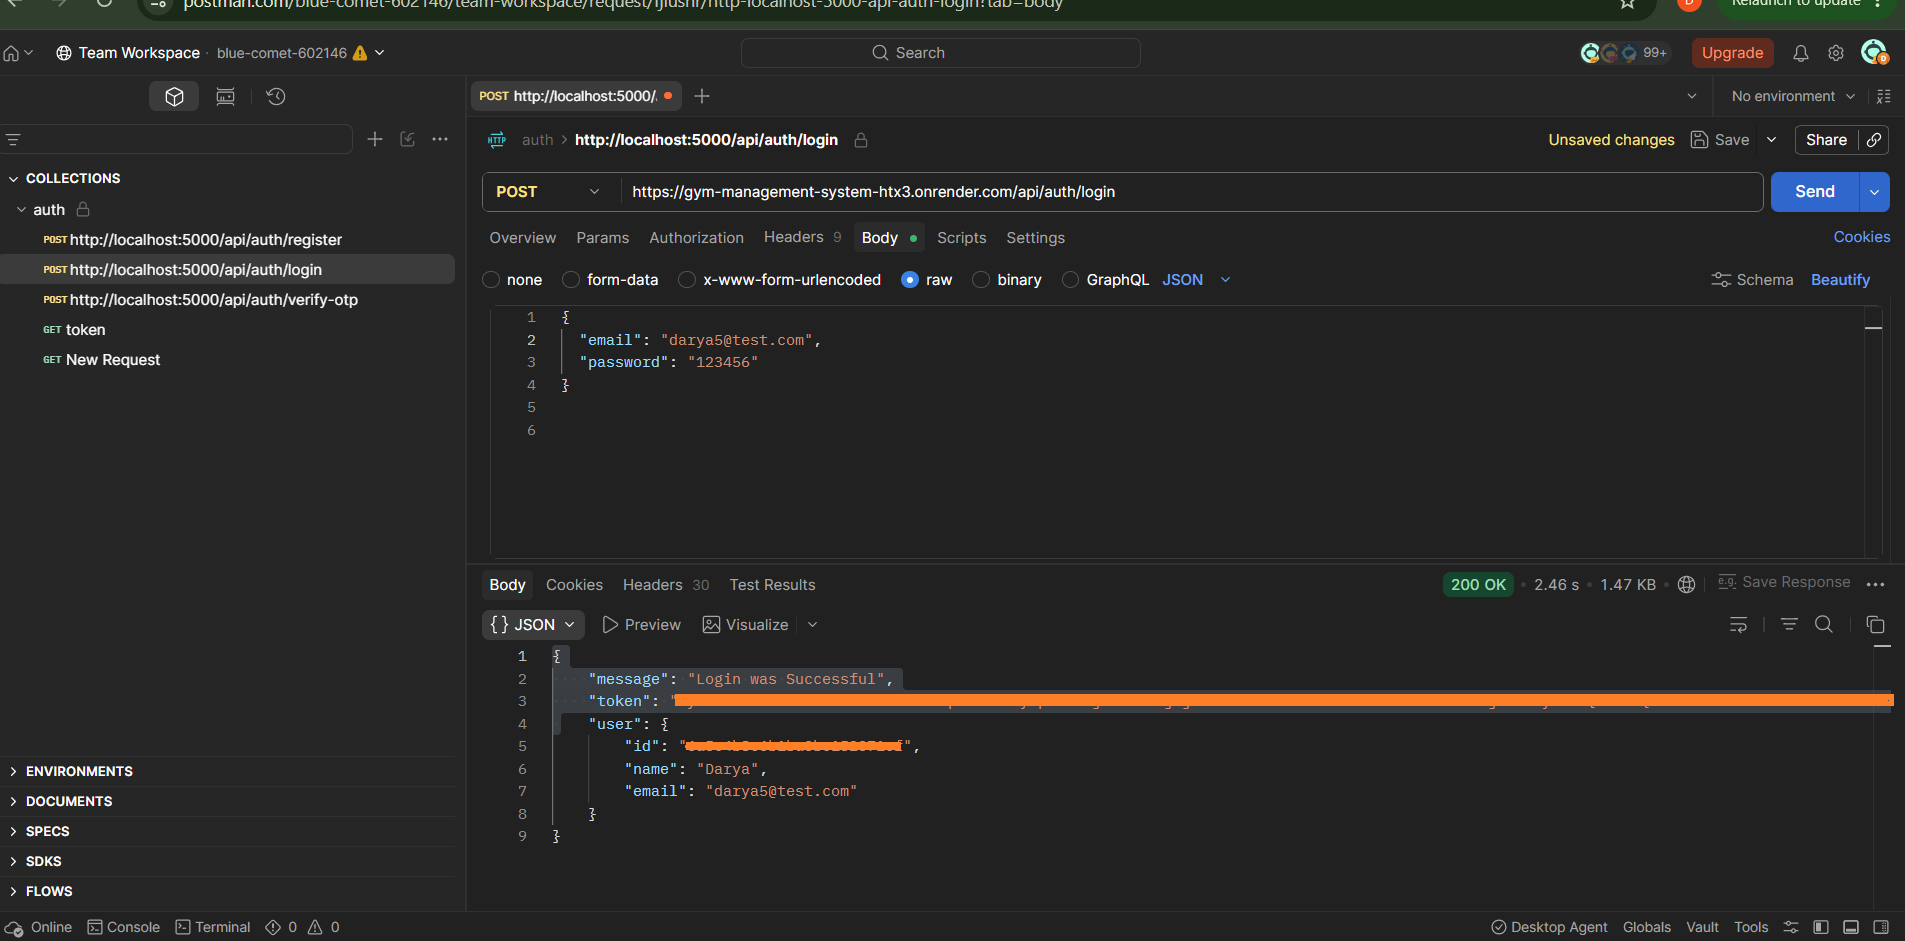
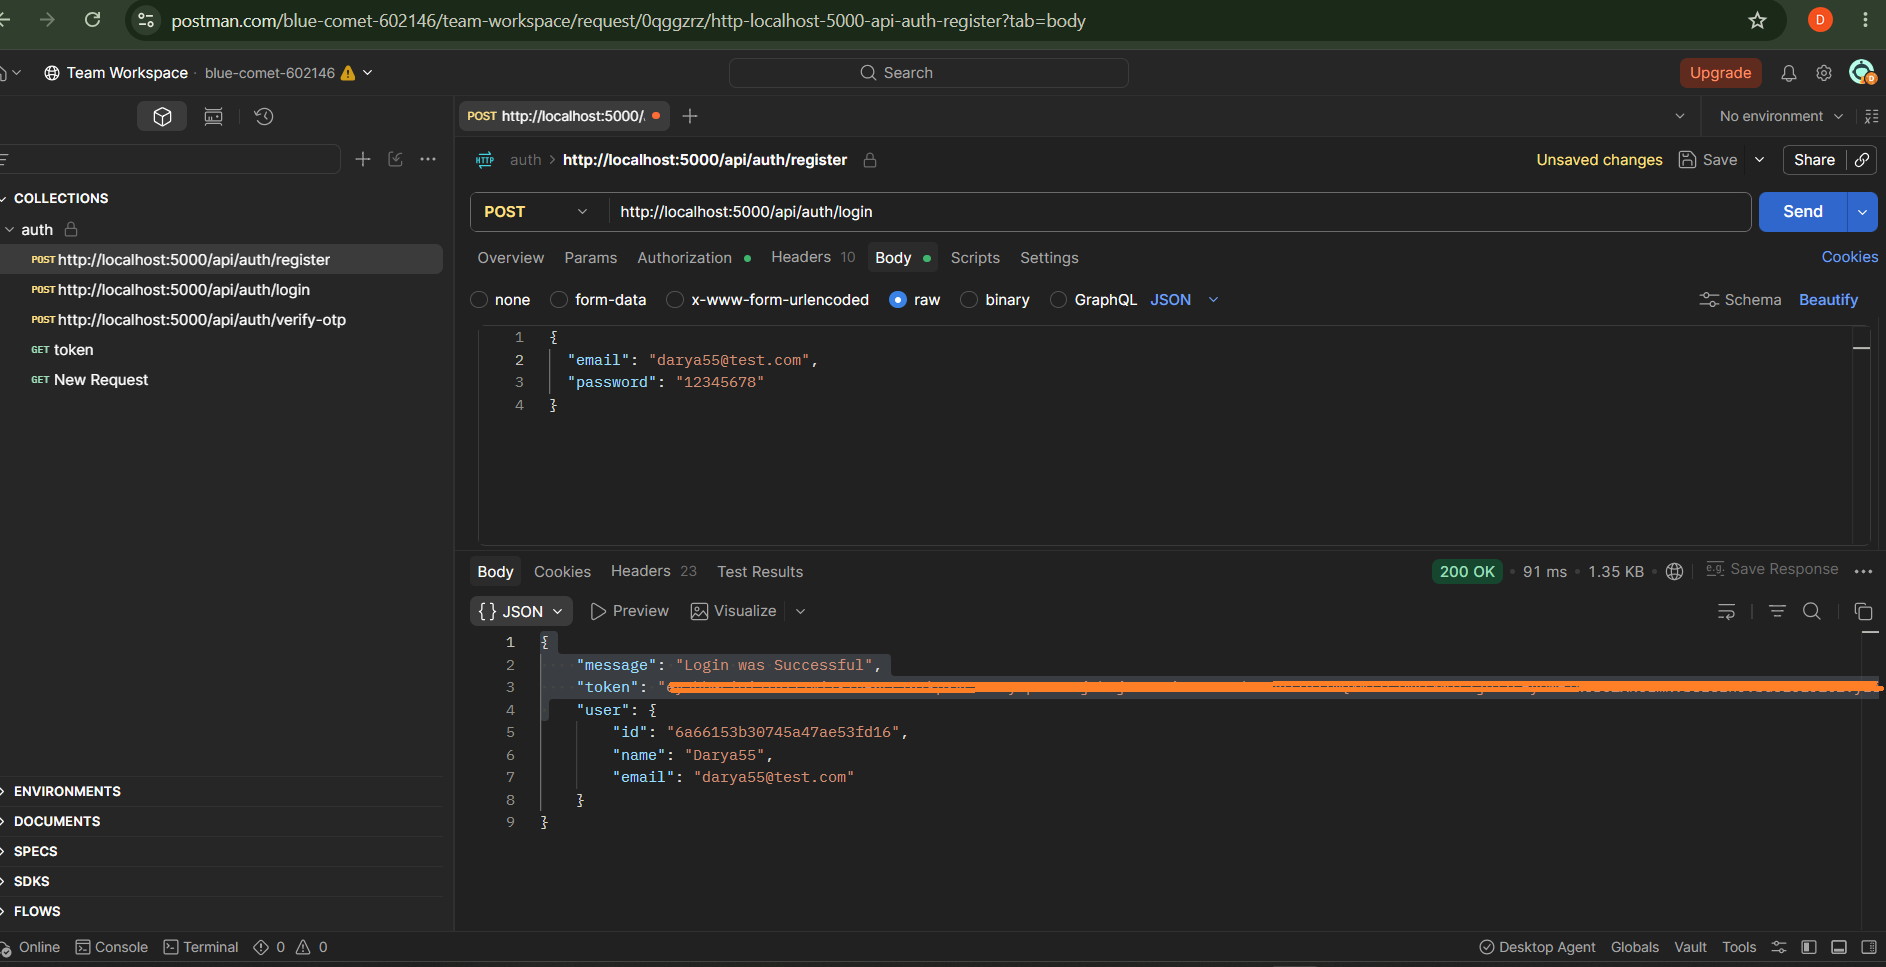
docs: update project name and repository URL

diff --git a/README.md b/README.md
@@ -12,6 +12,7 @@
 A production-ready Blog Management API built with Node.js, Express, MongoDB, JWT authentication, Swagger, testing, and scalable backend architecture.
 
 ---
+
 ## Overview
 
 Blog Management API is a production-ready backend application designed to manage users, posts, and content through a secure and scalable RESTful API.
@@ -25,6 +26,7 @@ This project demonstrates the implementation of a real-world content management 
 # Features
 
 ## Authentication & Authorization
+
 - User registration and authentication
 - Secure password hashing
 - JWT-based authentication
@@ -39,6 +41,7 @@ This project demonstrates the implementation of a real-world content management 
 - Automated API testing
 
 ## Posts Management
+
 - Create post
 - Get all posts
 - Search posts
@@ -49,6 +52,7 @@ This project demonstrates the implementation of a real-world content management 
 - Owner permission checking
 
 ## Comments System
+
 - Create comments
 - Get comments by post
 - Update comments
@@ -56,22 +60,26 @@ This project demonstrates the implementation of a real-world content management 
 - Comment ownership validation
 
 ## Validation & Error Handling
+
 - Request validation using Joi
 - Centralized error handling middleware
 - Custom AppError class
 - Proper HTTP status codes
 
 ## Security
+
 - Helmet security headers
 - Express Rate Limit
 - Mongo Sanitize
 - Password hashing with bcrypt
 
 ## Logging
+
 - HTTP request logging with Morgan
 - Application logging with Winston
 
 ## Documentation & Testing
+
 - Swagger API Documentation
 - Integration testing with Jest
 - API testing with Supertest
@@ -129,7 +137,6 @@ Authentication Middleware verifies token
 |
 ↓
 Controller accesses authenticated user data
-
 
 ### Login Process
 
@@ -201,6 +208,7 @@ server
 ```
 
 ---
+
 ## Database Schema
 
 The project uses MongoDB with Mongoose ODM for database modeling.
@@ -226,14 +234,14 @@ User
 
 ### User Model
 
-| Field | Type | Description |
-|---|---|---|
-| `_id` | ObjectId | Unique identifier |
-| `name` | String | User full name |
-| `email` | String | Unique user email |
-| `password` | String | Hashed password |
-| `createdAt` | Date | Account creation date |
-| `updatedAt` | Date | Last update date |
+| Field       | Type     | Description           |
+| ----------- | -------- | --------------------- |
+| `_id`       | ObjectId | Unique identifier     |
+| `name`      | String   | User full name        |
+| `email`     | String   | Unique user email     |
+| `password`  | String   | Hashed password       |
+| `createdAt` | Date     | Account creation date |
+| `updatedAt` | Date     | Last update date      |
 
 ---
 
@@ -254,14 +262,14 @@ Post
 
 ### Post Model
 
-| Field | Type | Description |
-|---|---|---|
-| `_id` | ObjectId | Unique identifier |
-| `title` | String | Post title |
-| `content` | String | Post content |
-| `author` | ObjectId | Reference to User collection |
-| `createdAt` | Date | Post creation date |
-| `updatedAt` | Date | Last update date |
+| Field       | Type     | Description                  |
+| ----------- | -------- | ---------------------------- |
+| `_id`       | ObjectId | Unique identifier            |
+| `title`     | String   | Post title                   |
+| `content`   | String   | Post content                 |
+| `author`    | ObjectId | Reference to User collection |
+| `createdAt` | Date     | Post creation date           |
+| `updatedAt` | Date     | Last update date             |
 
 ---
 
@@ -281,25 +289,26 @@ A single user can create multiple posts.
 The relationship is implemented using MongoDB ObjectId references with Mongoose.
 
 Comment
- |
- ├── _id
- ├── content
- ├── user
- ├── post
- ├── createdAt
- └── updatedAt
+|
+├── \_id
+├── content
+├── user
+├── post
+├── createdAt
+└── updatedAt
 
- User
- |
- | 1 : Many
- ↓
+User
+|
+| 1 : Many
+↓
 Posts
- |
- | 1 : Many
- ↓
+|
+| 1 : Many
+↓
 Comments
 
- ---
+---
+
 # Installation
 
 ## Clone Repository
@@ -331,7 +340,7 @@ Example:
 ```env
 PORT=5000
 
-MONGO_URI=mongodb://127.0.0.1:27017/gym
+MONGO_URI=mongodb://127.0.0.1:27017/blog
 
 JWT_SECRET=your_secret_key
 
